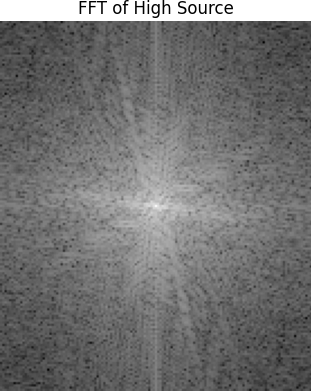
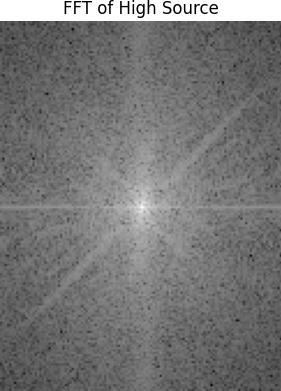
batman_vs_joker

diff --git a/run_part2_2.py b/run_part2_2.py
@@ -8,17 +8,17 @@ from pathlib import Path
 from align_image_code import align_images
 
 # ------------------------ Config ------------------------
-IMG1_PATH = "data/nutmeg.jpg"   # high-frequency source
-IMG2_PATH = "data/DerekPicture.jpg"    # low-frequency source
+IMG1_PATH = "data/joker.jpg"   # high-frequency source
+IMG2_PATH = "data/batman.jpg"    # low-frequency source
 
 # Name each run so outputs don’t overwrite
-RUN_NAME  = "nutmeg_Derek"      
+RUN_NAME  = "batman_joker"      
 OUT_ROOT  = "results/part2_2"   # final OUTDIR will be results/part2_2/<RUN_NAME>
 
 # Parameters
-SIGMA_LOW  = 9.0    # Gaussian sigma for low-pass (im2)
-SIGMA_HIGH = 4.0   # Gaussian sigma inside high-pass (im1’s blur)
-ALPHA_HIGH = 1.5    # scale for high-pass before combining
+SIGMA_LOW  = 1    # Gaussian sigma for low-pass (im2)
+SIGMA_HIGH = 2   # Gaussian sigma inside high-pass (im1’s blur)
+ALPHA_HIGH = 1.0    # scale for high-pass before combining
 BETA_LOW   = 1.0    # scale for low-pass before combining
 # --------------------------------------------------------
 
@@ -125,8 +125,8 @@ def main():
     save_img(f"{OUTDIR}/{run_name}_orig_low.png", to_gray01(im2_aligned))
 
     # Center crop
-    im1_aligned = center_crop(im1_aligned, ratio=0.5)
-    im2_aligned = center_crop(im2_aligned, ratio=0.5)
+    im1_aligned = center_crop(im1_aligned, ratio=0.83)
+    im2_aligned = center_crop(im2_aligned, ratio=0.83)
 
     im1g = to_gray01(im1_aligned)
     im2g = to_gray01(im2_aligned)
